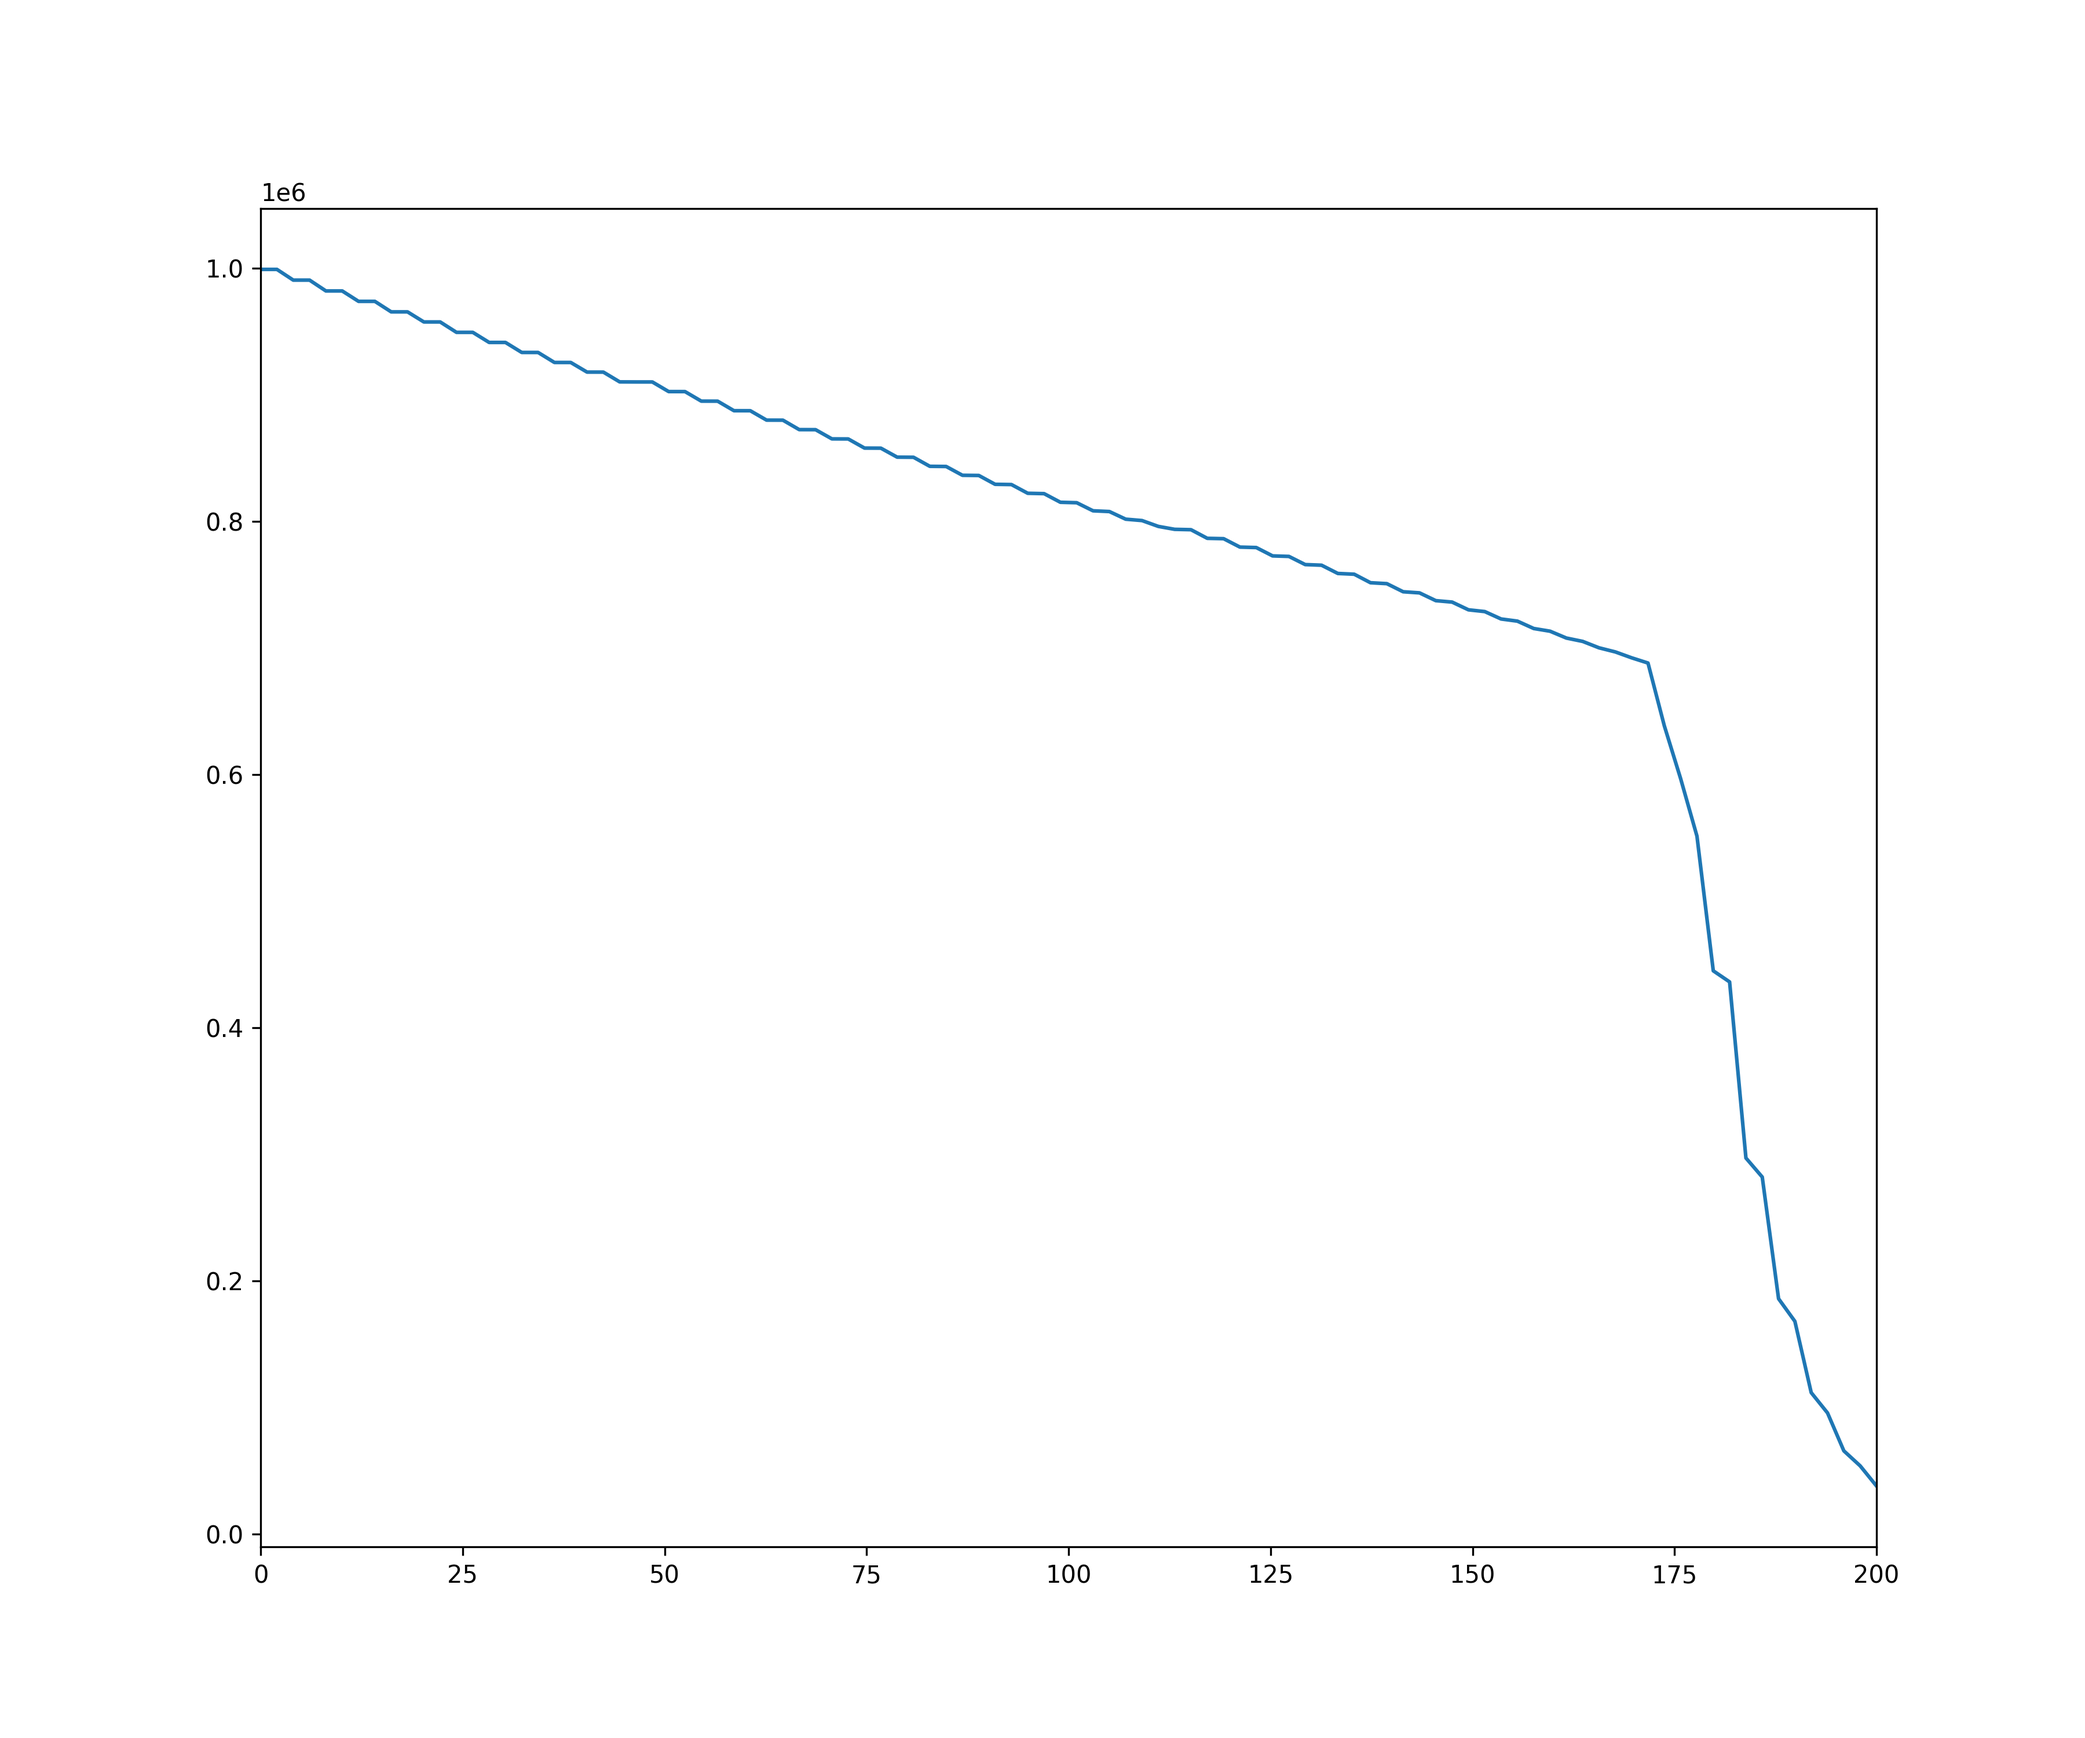
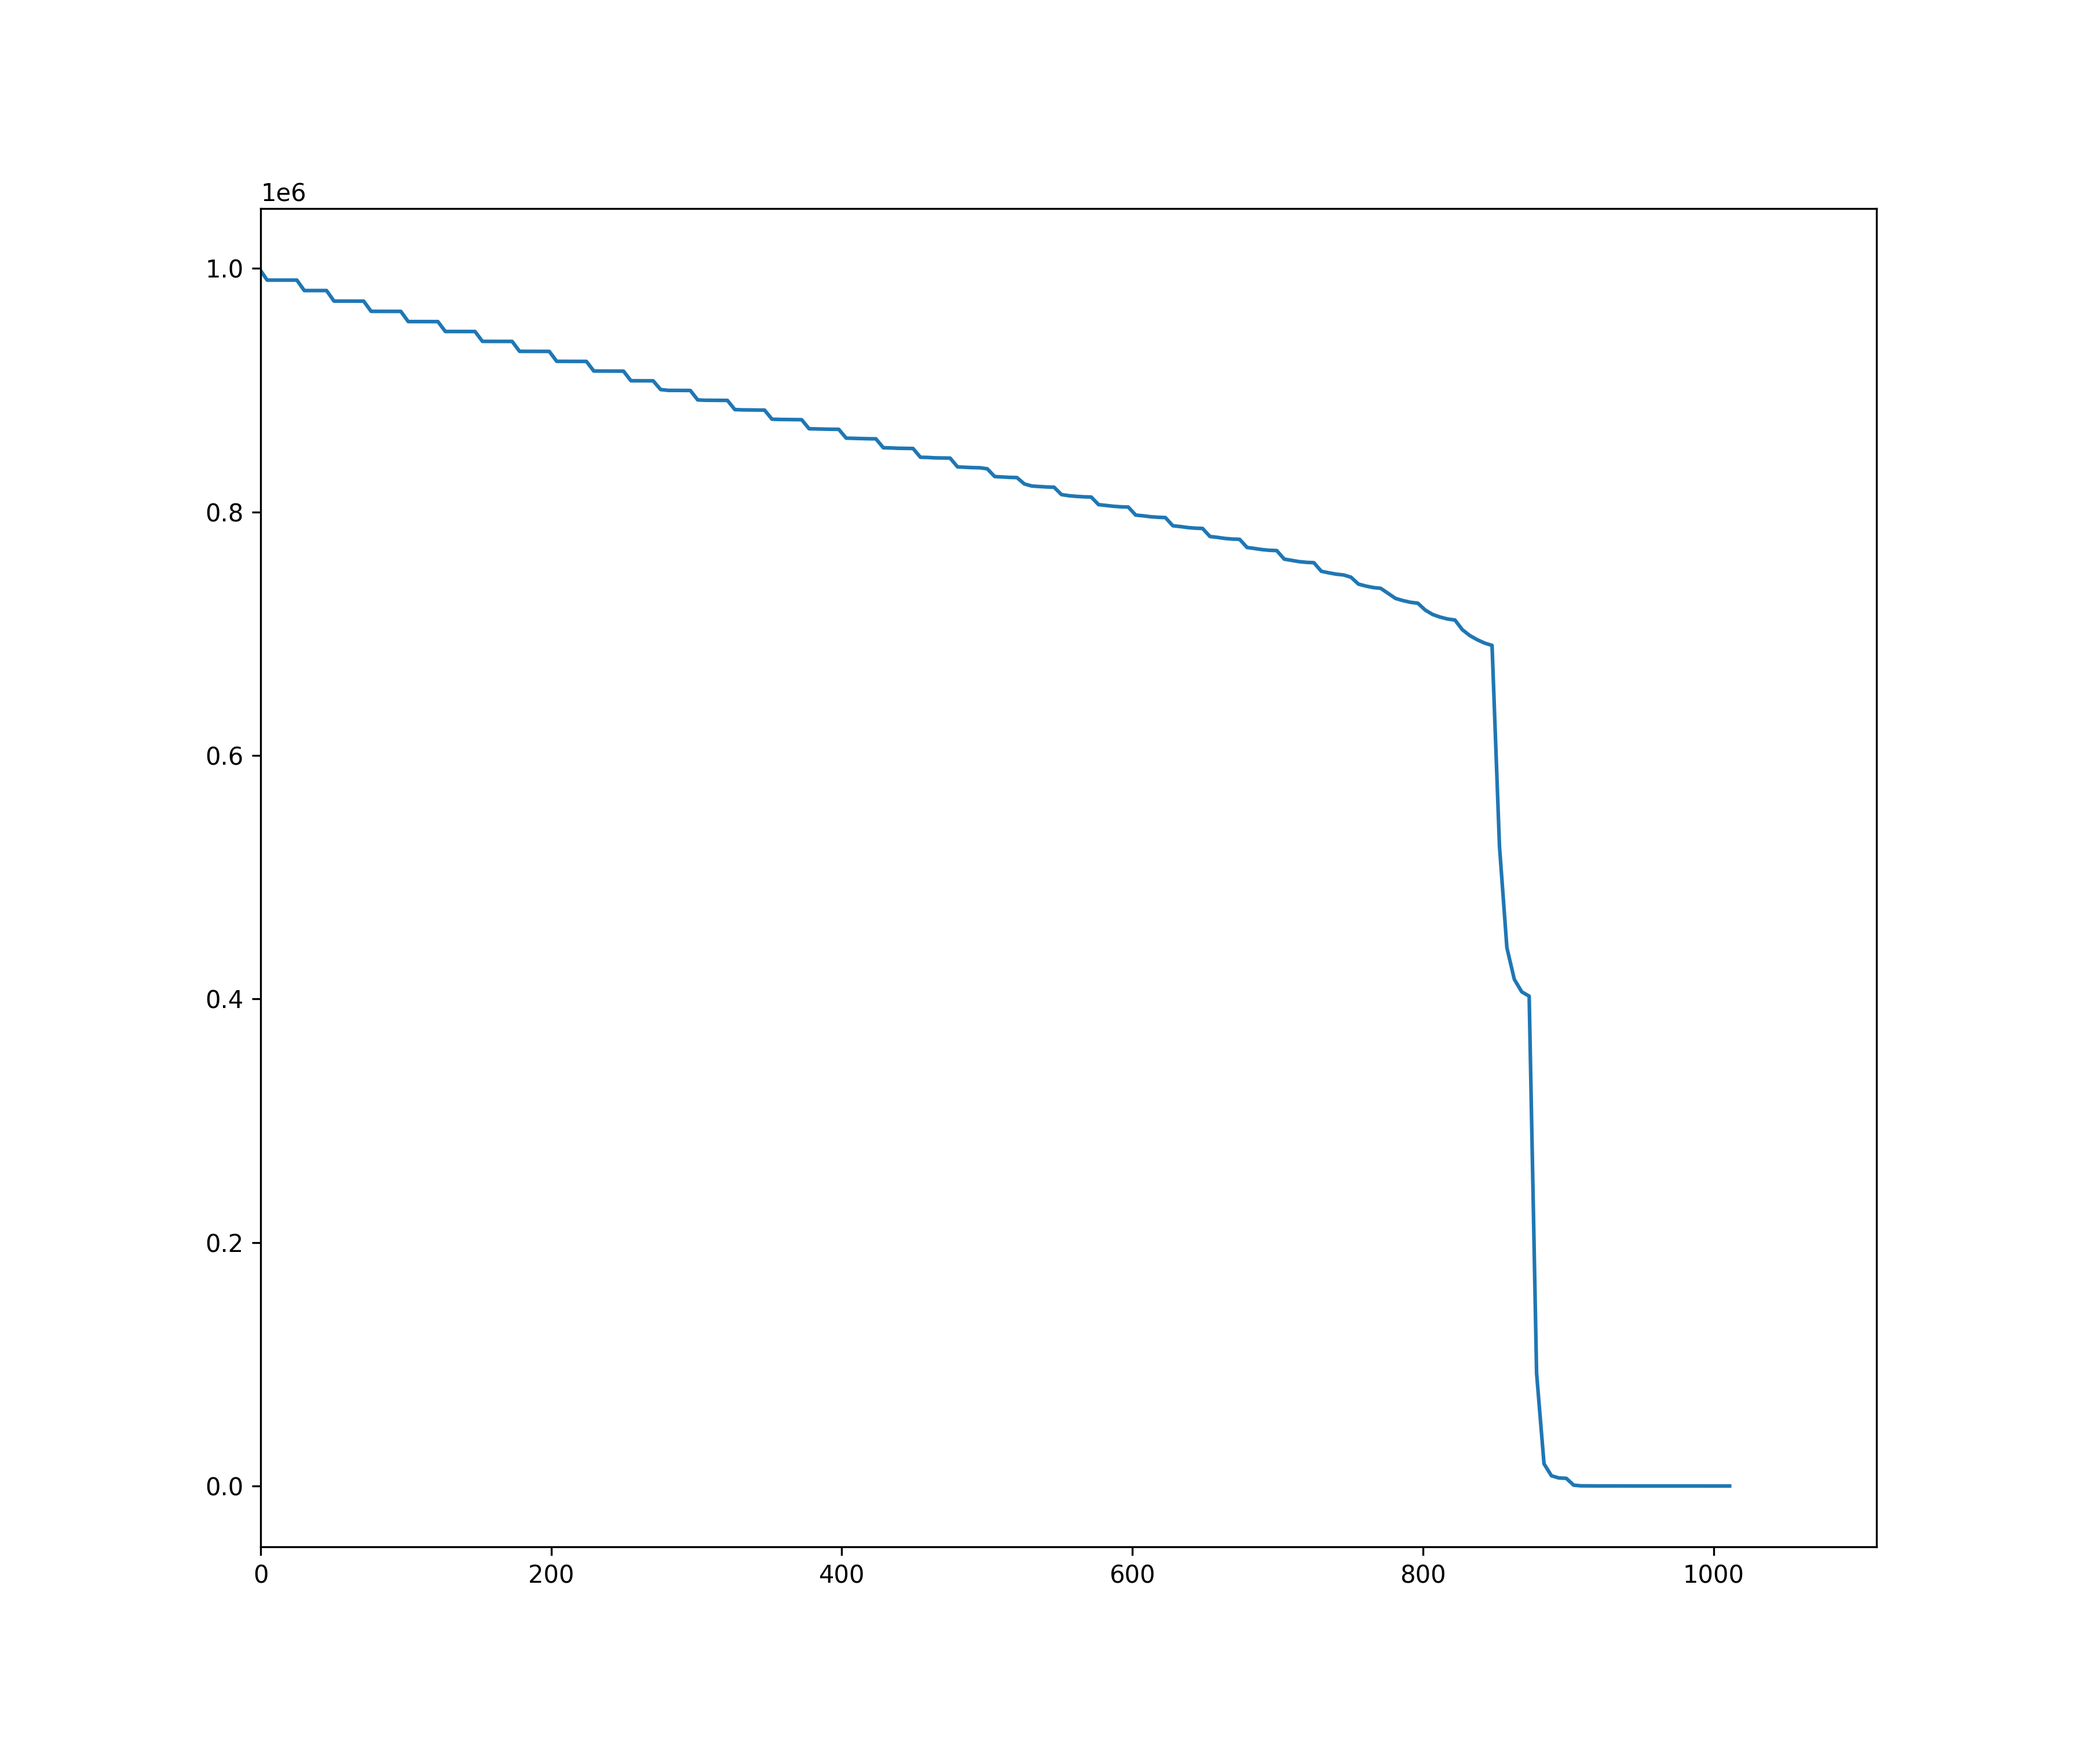
calculating proton range

diff --git a/scripts/modules/physics.py b/scripts/modules/physics.py
@@ -6,7 +6,7 @@ import numpy as np
 import modules.plots as plot
 import warnings
 
-OUTDIR = "../build/output"
+OUTDIR = "/data/pct/sim/cal/output"
 
 DENSITY_DICT = {
     'alpide': 2.33,
@@ -66,46 +66,40 @@ def get_range(data: pd.DataFrame):
     
     return x, y
 
-def gen_wepl_data(en):
-    en_dir = 'eMeV_' + '0'*(3 - len(str(en))) + str(en)
-    root_files = [f for f in os.listdir(
-        path.join(OUTDIR, en_dir,
-                  'projection_000')) if '_t' in f]
+def get_proton_range(en, wepl=False):
+    en_dir_name = f'eMeV_{"0"*(3 - len(str(en))) + str(en)}' 
+    root_files = [
+        f for f in os.listdir(
+            path.join(
+                OUTDIR, 
+                en_dir_name,
+                'projection_000'
+                )
+            ) if '_t' in f
+        ]
 
-    root_files.sort(key=lambda x: int(x.split('_t')[-1].split('.')[0]))
-    dfs = []
+    num_proton = 0
+    thicknesses = []
     for f in root_files:
-        print(f"Starting {f}")
-        if len(root_files):
-            with uproot.open(path.join(OUTDIR, en_dir, 
-                                    'projection_000',
-                                    f)) as root_data:
-                tree = root_data['pCT;1']
-                df_tmp = tree.arrays(library='pd')
-                if len(df_tmp.index):
-                    df_tmp['wepl'] = np.zeros(len(df_tmp.index))
-                    evt_ids = np.sort(np.unique(df_tmp['eventID'].values))
-                    for evt_id in evt_ids:
-                        if evt_id == 0:
-                            continue
-                        df_tmp_id = df_tmp[df_tmp.eventID==evt_id]
-                        for index, row in df_tmp_id.iterrows():
-                            layer_ids = np.sort(np.unique(df_tmp['layerID'].values))
-                            for layer_id in layer_ids:
-                                welp = 0
-                                current_df = df_tmp_id[df_tmp_id.layerID==layer_id]
-                                next_df = df_tmp_id[df_tmp_id.layerID==(layer_id + 1)]
-                                if len(current_df.index):
-                                    if len(next_df.index):
-                                        welp = get_WEPL(
-                                            get_thickness(
-                                                (current_df['pixelX'].values[0], current_df['pixelY'].values[0]),
-                                                (next_df['pixelX'].values[0], next_df['pixelY'].values[0])
-                                                )
-                                            )
-                                        df_tmp.loc[(df_tmp.eventID == evt_id) & (df_tmp.layerID == layer_id), 'welp'] = welp
-        print(f"Finished {f}")
-                    # wepls.append(wepl)
-    pd.concat(dfs, ignore_index=True).\
-        to_feather(f'./output/data/wepl/eMeV_{"0"*(3 - len(str(en))) + str(en)}.feather')
-    # plot.plot_dtc_wepl_hist_1d(wepls) 
+        print(f'Starting file {f}')
+        with uproot.open(path.join(
+                OUTDIR,
+                en_dir_name, 
+                'projection_000',
+                f
+            )) as root_data:
+
+            tree = root_data['pCT;1']
+            df = tree.arrays(library='pd')
+
+            num_proton += len(df[df.layerID == 0].index)
+            df_unique_sum = df.groupby('eventID',
+                                       as_index=False)['thickness'].sum()
+            thicknesses += df_unique_sum['thickness'].values.tolist()
+        print(f'Finished file {f}')
+    
+    data = np.array(thicknesses)
+    x_data = np.linspace(data.min(), data.max(), 200)
+    y_data = np.array([np.sum(data >= x) for x in x_data])
+    plot.plot_dtc_range([x_data, y_data])
+    print(x_data[np.where(y_data <= num_proton/2.)[0][0]])

diff --git a/scripts/modules/plots.py b/scripts/modules/plots.py
@@ -41,6 +41,20 @@ def plot_dtc_range(*args, **kwargs):
 
     fig, ax = plt.subplots(figsize=(12, 10))
     ax.plot(data[0], data[1])
-    ax.set_xlim([0, 200])
+    ax.set_xlim([0, 1.1*max(data[0])])
     plt.savefig(f"""./output/images/{kwargs["name"] if "name"
         in kwargs.keys() else "dtc_range.png"}""", dpi=300)
+
+def plot_entries_thickness_hist_1d(*args, **kwargs):
+    if 'data' in kwargs.keys():
+        data = kwargs['data']
+    else:
+        data = args[0]
+
+    x_min = kwargs['x_min'] if 'x_min' in kwargs.keys() else int(min(data))
+    x_max = kwargs['x_max'] if 'x_max' in kwargs.keys() else int(max(data))
+    xbin = kwargs['xbin'] if 'xbin' in kwargs.keys() else 1
+    fig, ax = plt.subplots(figsize=(12, 10))
+    plt.hist(data, bins=range(x_min, x_max, xbin))
+    plt.savefig(f"""./output/images/{kwargs["name"] if "name"
+        in kwargs.keys() else "entries_thickness_hits_1d.png"}""", dpi=300)

diff --git a/scripts/main.py b/scripts/main.py
@@ -1,6 +1,6 @@
 import os
 from os import path
-from modules.physics import gen_wepl_data, get_range
+from modules.physics import *
 
 from modules.plots import *
 import pandas as pd
@@ -19,5 +19,4 @@ def plot_range():
     plot_dtc_range((x, y)) 
 
 if __name__ == '__main__':
-    for en in range(200, 201):
-        en_range = gen_wepl_data(en)
+    get_proton_range(202)
